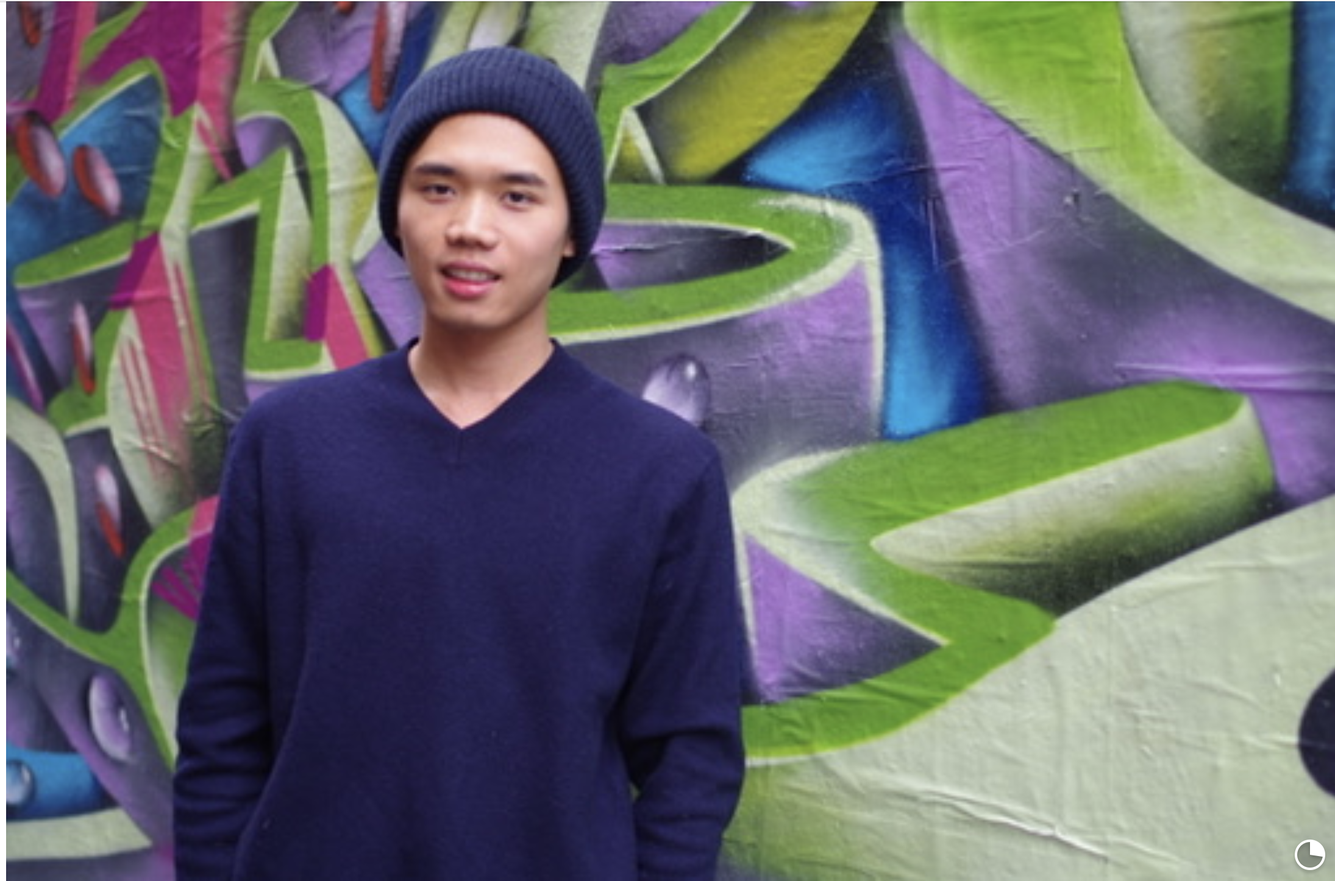
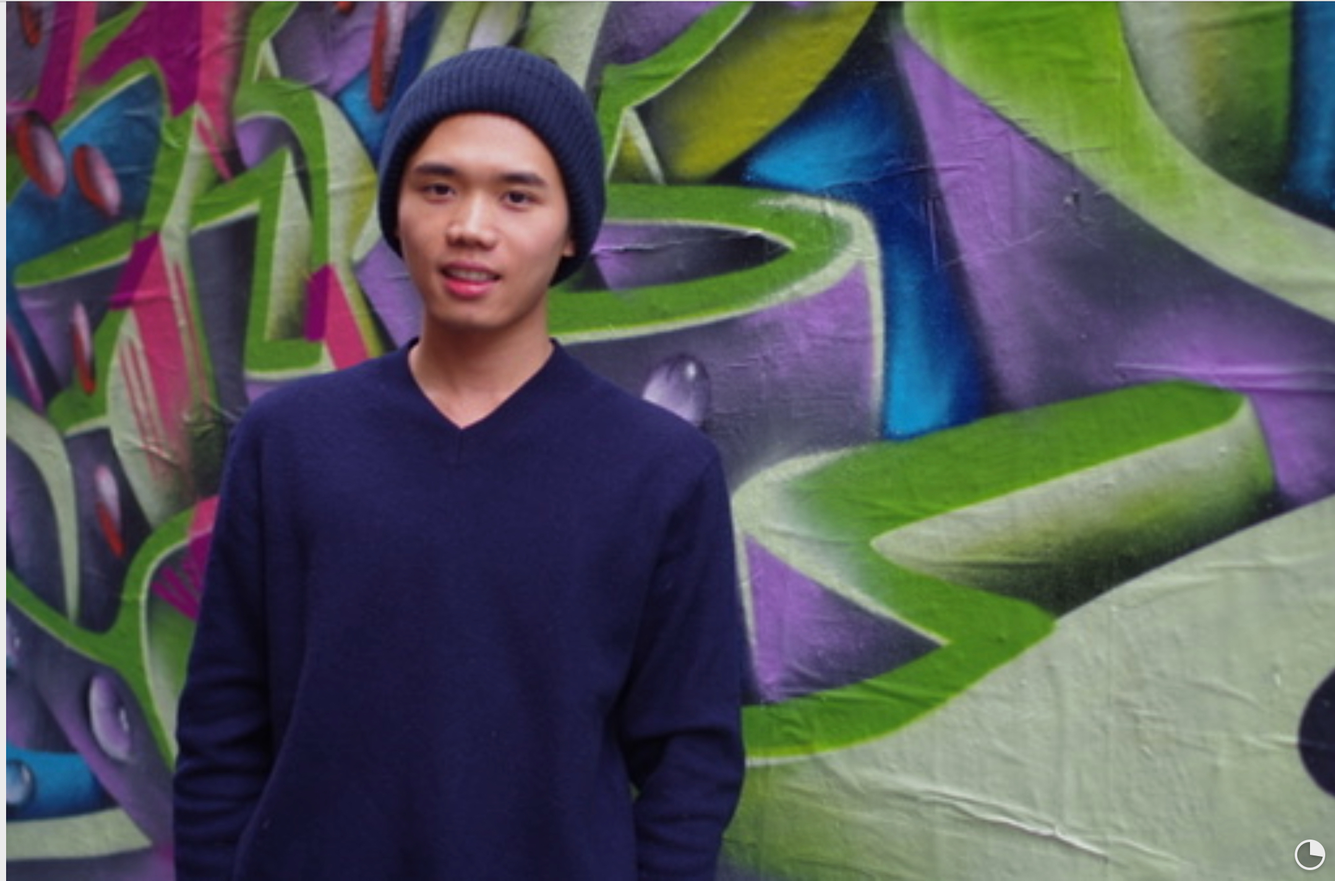
good

diff --git a/_layouts/bib.html b/_layouts/bib.html
@@ -20,15 +20,15 @@
       <div class="author">
         {% for author in entry.author_array %}
           {% assign author_is_self = false %}
-          {% if author.last == site.scholar.last_name%}
-            {% if site.scholar.first_name contains author.first%}
+          {% if author.first == site.scholar.last_name%}
+            {% if site.scholar.first_name contains author.last%}
               {% assign author_is_self = true %}
             {% endif %}
           {% endif %}
           {% assign coauthor_url = nil %}
-          {% if site.data.coauthors[author.last] %}
-            {% for coauthor in site.data.coauthors[author.last] %}
-              {% if coauthor.firstname contains author.first %}
+          {% if site.data.coauthors[author.first] %}
+            {% for coauthor in site.data.coauthors[author.first] %}
+              {% if coauthor.lastname contains author.last %}
                 {% assign coauthor_url = coauthor.url %}
                 {% break %}
               {% endif %}
@@ -37,29 +37,29 @@
           
           {% if forloop.length == 1 %}
             {% if author_is_self %}
-              <em>{{author.last}}, {{author.first}}</em>
+              <em>{{author.first}} {{author.last}}</em>
             {% else %}
-              {{author.last}}, {{author.first}}
+              {{author.first}} {{author.last}}
             {% endif %}
           {% else %}
             {% unless forloop.last %}
               {% if author_is_self %}
-                <em>{{author.last}}, {{author.first}}</em>,
+                <em>{{author.first}}, {{author.last}}</em>,
               {% else %}
                 {% if coauthor_url %}
-                  <a href="{{coauthor_url}}" target="_blank">{{author.last}}, {{author.first}}</a>,
+                  <a href="{{coauthor_url}}" target="_blank">{{author.first}} {{author.last}}</a>,
                 {% else %}
-                  {{author.last}}, {{author.first}},
+                  {{author.first}} {{author.last}}, 
                 {% endif %}
               {% endif %}
             {% else %}
               {% if author_is_self %}
-                and <em>{{author.last}}, {{author.first}}</em>
+                and <em>{{author.first}} {{author.last}}</em>
               {% else %}
                 {% if coauthor_url %}
-                  and <a href="{{coauthor_url}}" target="_blank">{{author.last}}, {{author.first}}</a>
+                  and <a href="{{coauthor_url}}" target="_blank">{{author.first}} {{author.last}}</a>
                 {% else %}
-                  and {{author.last}}, {{author.first}}
+                  and {{author.first}} {{author.last}}
                 {% endif %}
               {% endif %}
             {% endunless %}

diff --git a/_includes/header.html b/_includes/header.html
@@ -25,7 +25,7 @@
           <!-- About -->
           <li class="nav-item {% if page.title == 'about' %}active{% endif %}">
             <a class="nav-link" href="{{ '/' | relative_url }}">
-              about
+              about me
               {% if page.title == "about" %}
                 <span class="sr-only">(current)</span>
               {% endif %}

diff --git a/_includes/selected_papers.html b/_includes/selected_papers.html
@@ -1,4 +1,4 @@
 <div class="publications">
-  <h2>selected publications</h2>
+  <h2>Papers</h2>
   {% bibliography -f papers -q @*[selected=true]* %}
 </div>

diff --git a/_pages/about.md b/_pages/about.md
@@ -2,12 +2,12 @@
 layout: about
 title: about
 permalink: /
-description: <a href="https://www.ieor.columbia.edu"> Department of Industrial Engineering and Operations Research, Columbia University </a>
+description:  <small> Department of Industrial Engineering and Operations Research, Columbia University  </small>
 
 profile:
   align: right
   image: luofeng.png
-  address: 
+  address: Me at a graffiti laneway in Melbourne
 
 news: false  # includes a list of news items
 selected_papers: true # includes a list of papers marked as "selected={true}"
@@ -19,13 +19,3 @@ Hi! My name is Luofeng Liao (廖烙锋 in Chinese) and I am a first-year phd stu
 My research interests are deep/machine learning methods for causal inference and econometrics, reinforcement learning with observational data, nonparametric statistics and minimax optimization.
 
 Prior to Columbia, I received my bachelor’s degree in computer science in Fudan University in China and a master's degree in statistics in University of Chicago. In UChicago, I used to work with Prof. [Mladen Kolar](https://mkolar.coffeejunkies.org) and Prof. [Zhaoran Wang](https://zhaoranwang.github.io).
-
-
-
-Write your biography here. Tell the world about yourself. Link to your favorite [subreddit](http://reddit.com){:target="\_blank"}. You can put a picture in, too. The code is already in, just name your picture `prof_pic.jpg` and put it in the `img/` folder.
-
-Put your address / P.O. box / other info right below your picture. You can also disable any these elements by editing `profile` property of the YAML header of your `_pages/about.md`. Edit `_bibliography/papers.bib` and Jekyll will render your [publications page](/al-folio/publications/) automatically.
-
-Link to your social media connections, too. This theme is set up to use [Font Awesome icons](http://fortawesome.github.io/Font-Awesome/){:target="\_blank"} and [Academicons](https://jpswalsh.github.io/academicons/){:target="\_blank"}, like the ones below. Add your Facebook, Twitter, LinkedIn, Google Scholar, or just disable all of them.
-
-[linkedin](https://www.linkedin.com/in/luofeng-liao-7a1027181/) and [google-scholar](https://scholar.google.com/citations?user=2kVrHEUAAAAJ&hl=en&authuser=1).
